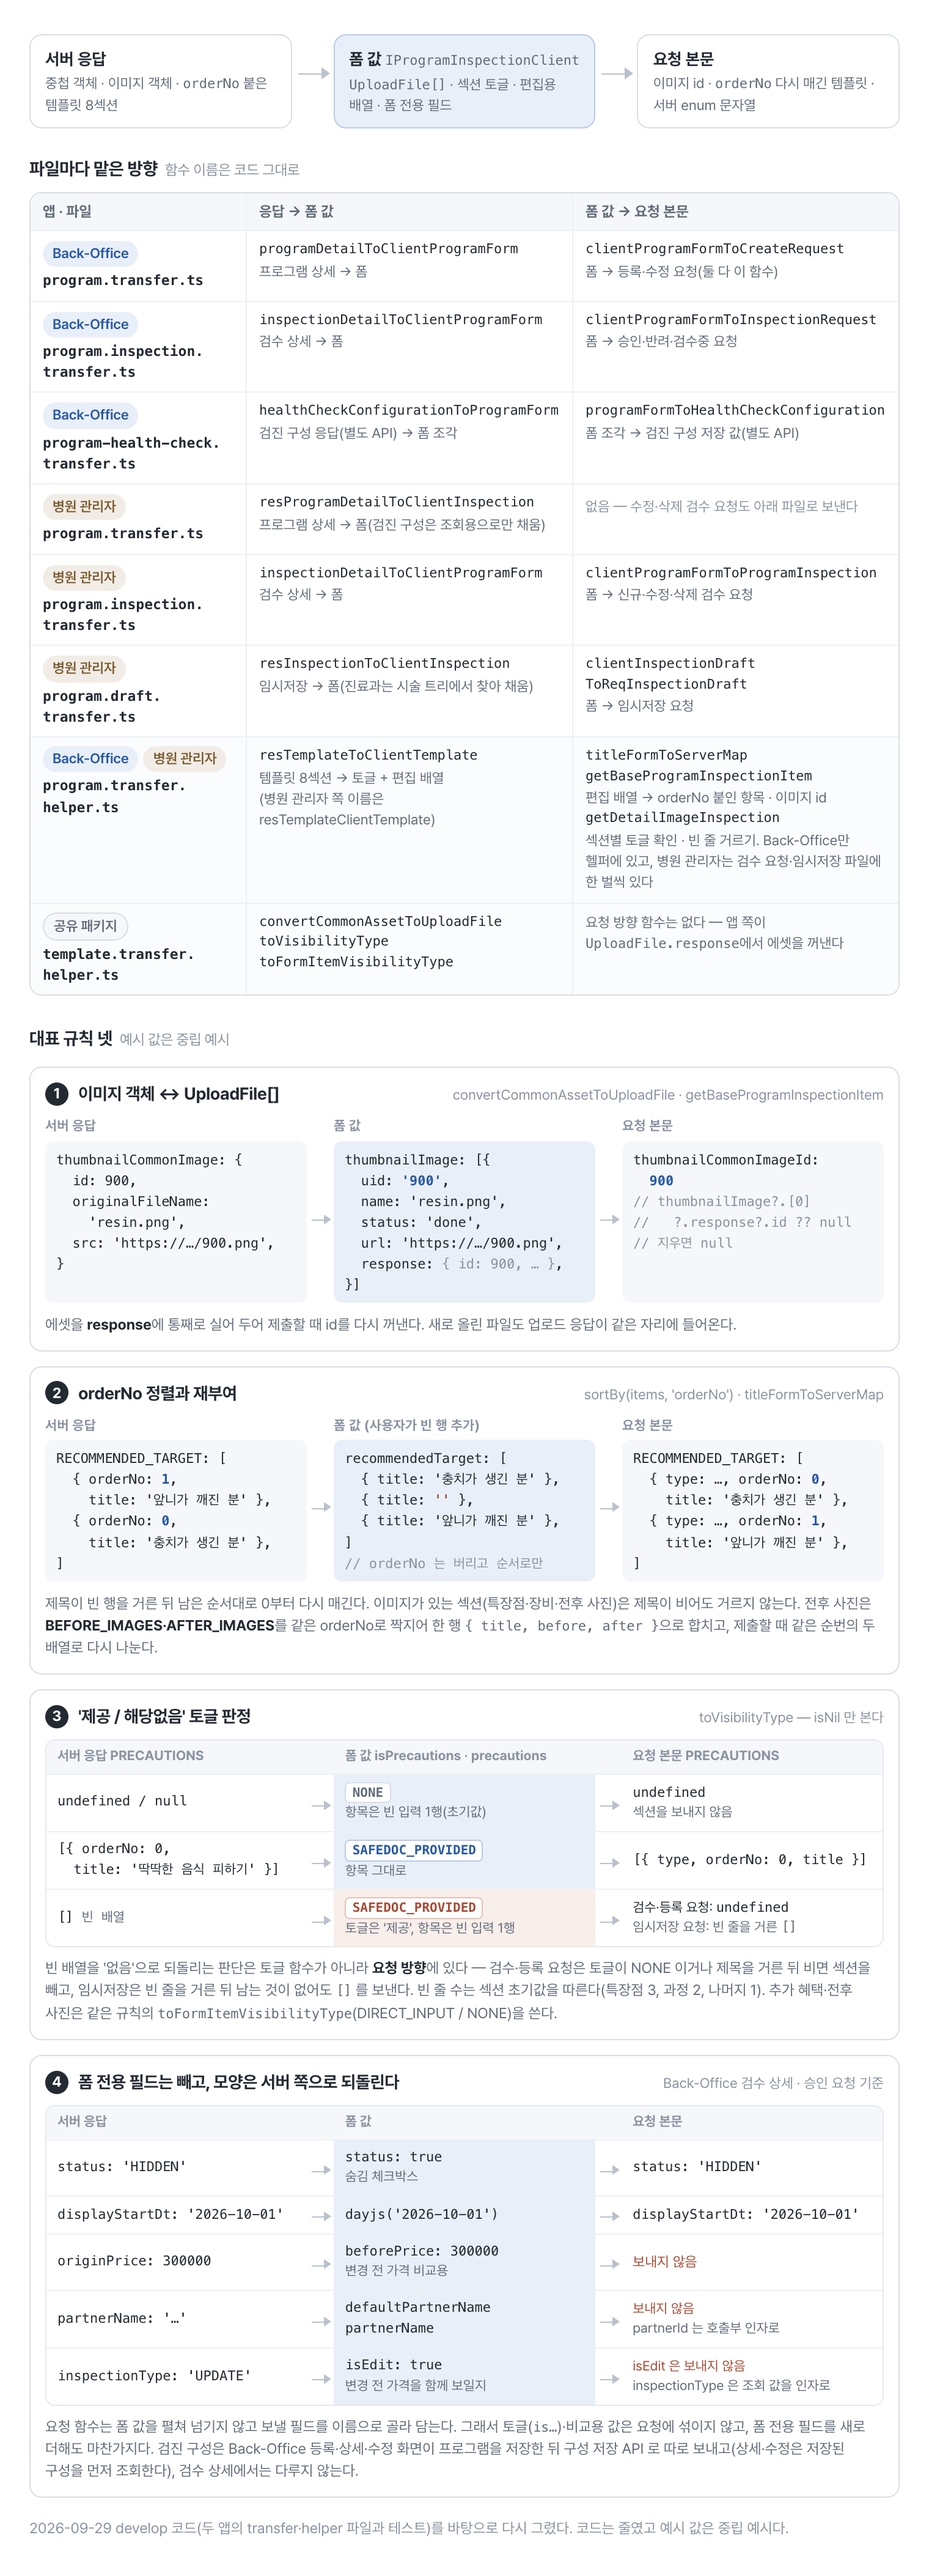
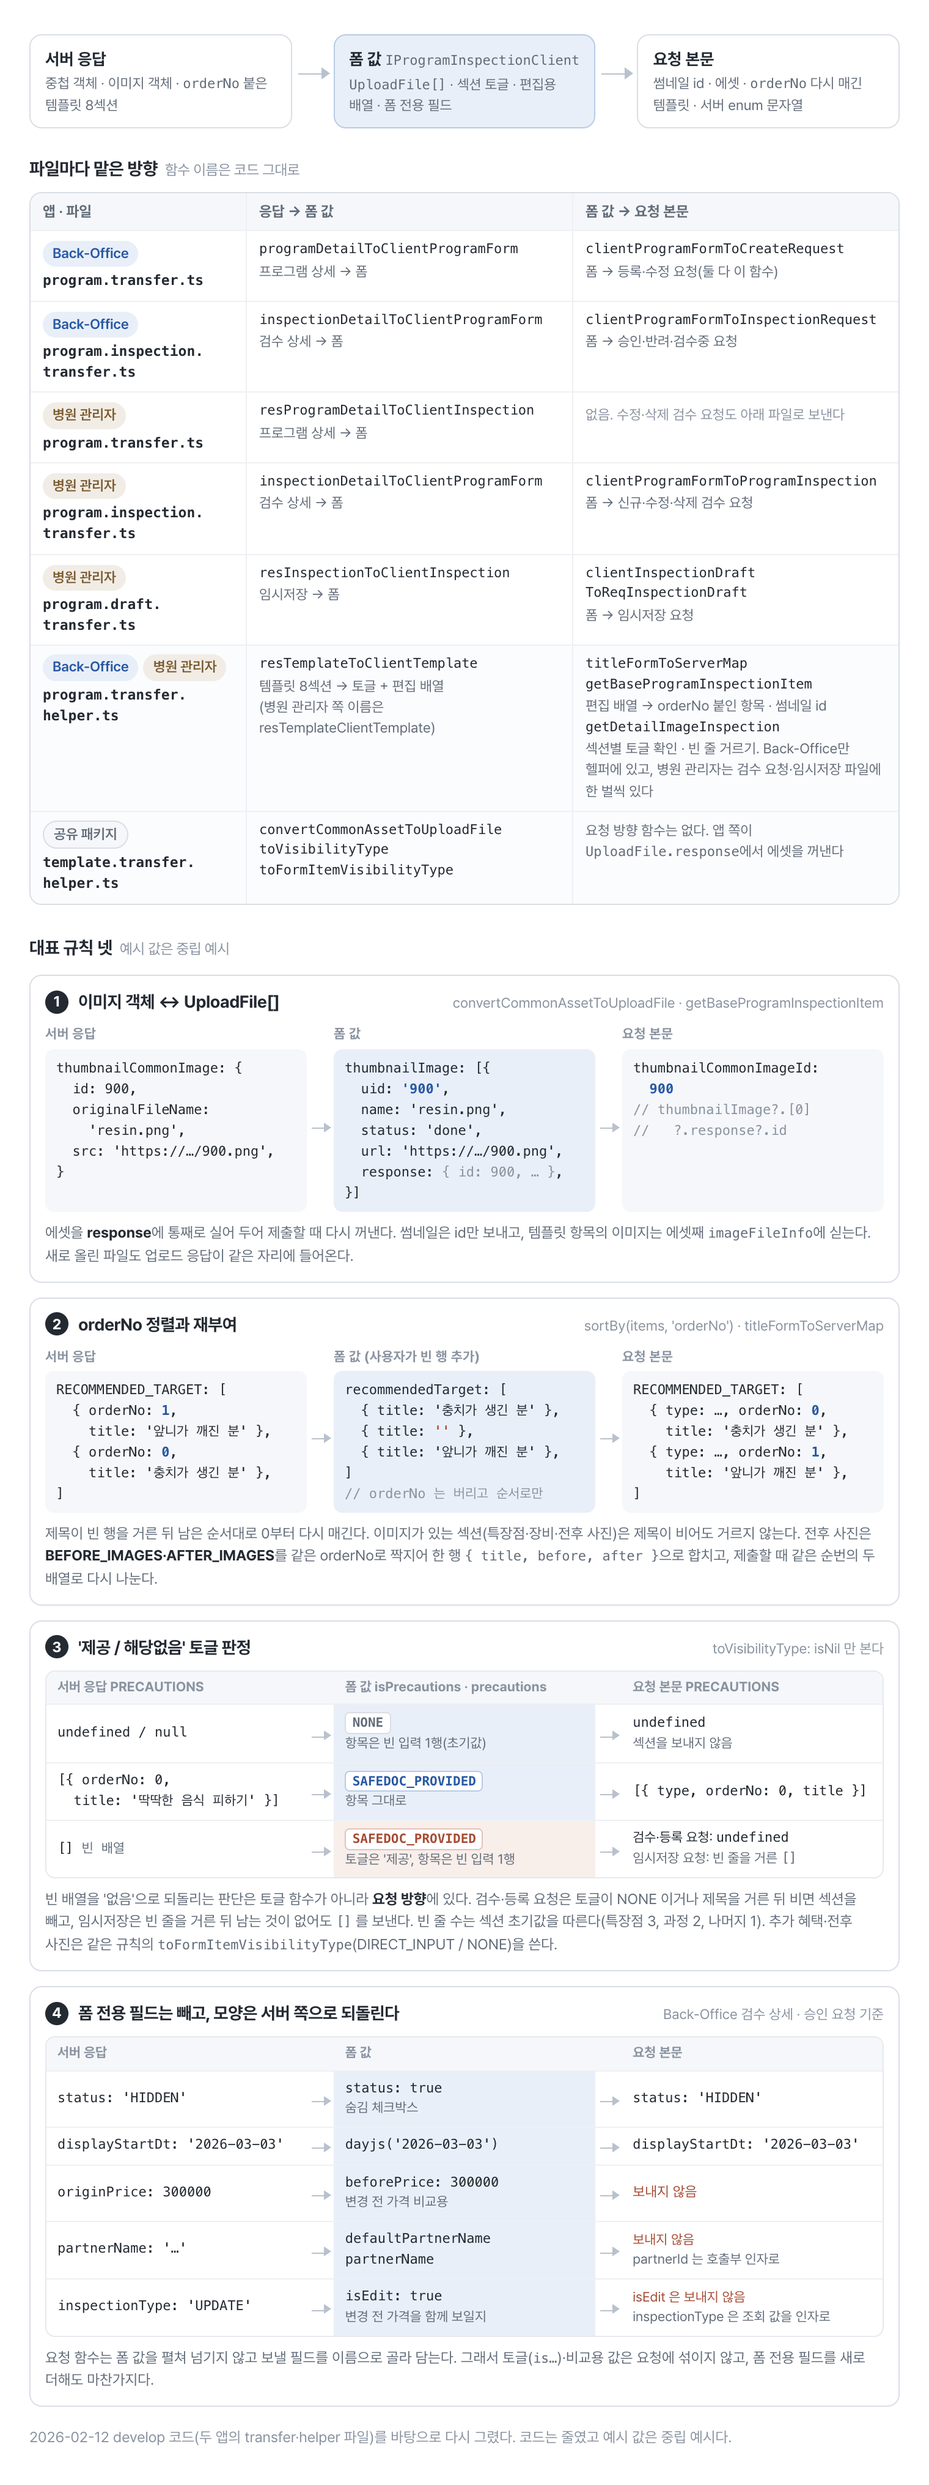
docs(blog): 프로그램 폼 변환 계층 그림에서 검진 변환을 빼고 당시 이미지 규칙으로 맞춘다

diff --git a/blog/assets/figures/program-form/src/03-transfer-layer.html b/blog/assets/figures/program-form/src/03-transfer-layer.html
@@ -81,7 +81,7 @@
   <div class="dir"></div>
   <div class="stage form"><b>폼 값 <span class="mono" style="display:inline;font-weight:400">IProgramInspectionClient</span></b><span><span class="mono" style="display:inline">UploadFile[]</span> · 섹션 토글 · 편집용 배열 · 폼 전용 필드</span></div>
   <div class="dir"></div>
-  <div class="stage"><b>요청 본문</b><span>이미지 id · <span class="mono" style="display:inline">orderNo</span> 다시 매긴 템플릿 · 서버 enum 문자열</span></div>
+  <div class="stage"><b>요청 본문</b><span>썸네일 id · 에셋 · <span class="mono" style="display:inline">orderNo</span> 다시 매긴 템플릿 · 서버 enum 문자열</span></div>
 </div>
 
 <p class="sec">파일마다 맡은 방향<small>함수 이름은 코드 그대로</small></p>
@@ -99,14 +99,9 @@
     <div><span class="fn">clientProgramFormToInspectionRequest</span><span class="what">폼 → 승인·반려·검수중 요청</span></div>
   </div>
   <div class="frow">
-    <div><span class="app bo">Back-Office</span><span class="fname">program-health-check.<wbr>transfer.ts</span></div>
-    <div><span class="fn">healthCheckConfigurationToProgramForm</span><span class="what">검진 구성 응답(별도 API) → 폼 조각</span></div>
-    <div><span class="fn">programFormToHealthCheckConfiguration</span><span class="what">폼 조각 → 검진 구성 저장 값(별도 API)</span></div>
-  </div>
-  <div class="frow">
     <div><span class="app pa">병원 관리자</span><span class="fname">program.transfer.ts</span></div>
-    <div><span class="fn">resProgramDetailToClientInspection</span><span class="what">프로그램 상세 → 폼(검진 구성은 조회용으로만 채움)</span></div>
-    <div><span class="none">없음 — 수정·삭제 검수 요청도 아래 파일로 보낸다</span></div>
+    <div><span class="fn">resProgramDetailToClientInspection</span><span class="what">프로그램 상세 → 폼</span></div>
+    <div><span class="none">없음. 수정·삭제 검수 요청도 아래 파일로 보낸다</span></div>
   </div>
   <div class="frow">
     <div><span class="app pa">병원 관리자</span><span class="fname">program.inspection.<wbr>transfer.ts</span></div>
@@ -115,18 +110,18 @@
   </div>
   <div class="frow">
     <div><span class="app pa">병원 관리자</span><span class="fname">program.draft.<wbr>transfer.ts</span></div>
-    <div><span class="fn">resInspectionToClientInspection</span><span class="what">임시저장 → 폼(진료과는 시술 트리에서 찾아 채움)</span></div>
+    <div><span class="fn">resInspectionToClientInspection</span><span class="what">임시저장 → 폼</span></div>
     <div><span class="fn" style="white-space:normal">clientInspectionDraft<wbr>ToReqInspectionDraft</span><span class="what">폼 → 임시저장 요청</span></div>
   </div>
   <div class="frow group">
     <div><div class="apps"><span class="app bo">Back-Office</span><span class="app pa">병원 관리자</span></div><span class="fname">program.transfer.<wbr>helper.ts</span></div>
     <div><span class="fn">resTemplateToClientTemplate</span><span class="what">템플릿 8섹션 → 토글 + 편집 배열<br>(병원 관리자 쪽 이름은 resTemplateClientTemplate)</span></div>
-    <div><span class="fn">titleFormToServerMap</span><span class="fn">getBaseProgramInspectionItem</span><span class="what">편집 배열 → orderNo 붙인 항목 · 이미지 id</span><span class="fn">getDetailImageInspection</span><span class="what">섹션별 토글 확인 · 빈 줄 거르기. Back-Office만 헬퍼에 있고, 병원 관리자는 검수 요청·임시저장 파일에 한 벌씩 있다</span></div>
+    <div><span class="fn">titleFormToServerMap</span><span class="fn">getBaseProgramInspectionItem</span><span class="what">편집 배열 → orderNo 붙인 항목 · 썸네일 id</span><span class="fn">getDetailImageInspection</span><span class="what">섹션별 토글 확인 · 빈 줄 거르기. Back-Office만 헬퍼에 있고, 병원 관리자는 검수 요청·임시저장 파일에 한 벌씩 있다</span></div>
   </div>
   <div class="frow group">
     <div><span class="app server">공유 패키지</span><span class="fname">template.transfer.<wbr>helper.ts</span></div>
     <div><span class="fn">convertCommonAssetToUploadFile</span><span class="fn">toVisibilityType</span><span class="fn">toFormItemVisibilityType</span></div>
-    <div><span class="what" style="margin-top:0">요청 방향 함수는 없다 — 앱 쪽이 <code style="font-size:11px">UploadFile.response</code>에서 에셋을 꺼낸다</span></div>
+    <div><span class="what" style="margin-top:0">요청 방향 함수는 없다. 앱 쪽이 <code style="font-size:11px">UploadFile.response</code>에서 에셋을 꺼낸다</span></div>
   </div>
 </div>
 
@@ -157,10 +152,9 @@
 <pre>thumbnailCommonImageId:
   <span class="k">900</span>
 <span class="c">// thumbnailImage?.[0]
-//   ?.response?.id ?? null
-// 지우면 null</span></pre></div>
+//   ?.response?.id</span></pre></div>
   </div>
-  <p class="note">에셋을 <b>response</b>에 통째로 실어 두어 제출할 때 id를 다시 꺼낸다. 새로 올린 파일도 업로드 응답이 같은 자리에 들어온다.</p>
+  <p class="note">에셋을 <b>response</b>에 통째로 실어 두어 제출할 때 다시 꺼낸다. 썸네일은 id만 보내고, 템플릿 항목의 이미지는 에셋째 <code>imageFileInfo</code>에 싣는다. 새로 올린 파일도 업로드 응답이 같은 자리에 들어온다.</p>
 </div>
 
 <!-- ② orderNo -->
@@ -196,7 +190,7 @@
 
 <!-- ③ 토글 -->
 <div class="rule">
-  <div class="rule-h"><span class="num">3</span><b>'제공 / 해당없음' 토글 판정</b><span class="by">toVisibilityType — isNil 만 본다</span></div>
+  <div class="rule-h"><span class="num">3</span><b>'제공 / 해당없음' 토글 판정</b><span class="by">toVisibilityType: isNil 만 본다</span></div>
   <div class="tt">
     <div class="tr head"><div>서버 응답 PRECAUTIONS</div><div class="arr-sp"></div><div>폼 값 isPrecautions · precautions</div><div class="arr-sp"></div><div>요청 본문 PRECAUTIONS</div></div>
     <div class="tr">
@@ -215,7 +209,7 @@
       <div><span class="s" style="color:var(--ink)">검수·등록 요청: <span class="m">undefined</span></span><span class="s">임시저장 요청: 빈 줄을 거른 <span class="m">[]</span></span></div>
     </div>
   </div>
-  <p class="note">빈 배열을 '없음'으로 되돌리는 판단은 토글 함수가 아니라 <b>요청 방향</b>에 있다 — 검수·등록 요청은 토글이 NONE 이거나 제목을 거른 뒤 비면 섹션을 빼고, 임시저장은 빈 줄을 거른 뒤 남는 것이 없어도 <code>[]</code> 를 보낸다. 빈 줄 수는 섹션 초기값을 따른다(특장점 3, 과정 2, 나머지 1). 추가 혜택·전후 사진은 같은 규칙의 <code>toFormItemVisibilityType</code>(DIRECT_INPUT / NONE)을 쓴다.</p>
+  <p class="note">빈 배열을 '없음'으로 되돌리는 판단은 토글 함수가 아니라 <b>요청 방향</b>에 있다. 검수·등록 요청은 토글이 NONE 이거나 제목을 거른 뒤 비면 섹션을 빼고, 임시저장은 빈 줄을 거른 뒤 남는 것이 없어도 <code>[]</code> 를 보낸다. 빈 줄 수는 섹션 초기값을 따른다(특장점 3, 과정 2, 나머지 1). 추가 혜택·전후 사진은 같은 규칙의 <code>toFormItemVisibilityType</code>(DIRECT_INPUT / NONE)을 쓴다.</p>
 </div>
 
 <!-- ④ 폼 전용 필드 -->
@@ -229,9 +223,9 @@
       <div class="m">status: 'HIDDEN'</div>
     </div>
     <div class="tr">
-      <div class="m">displayStartDt: '2026-10-01'</div><div class="arr"></div>
-      <div class="mid"><span class="m">dayjs('2026-10-01')</span></div><div class="arr"></div>
-      <div class="m">displayStartDt: '2026-10-01'</div>
+      <div class="m">displayStartDt: '2026-03-03'</div><div class="arr"></div>
+      <div class="mid"><span class="m">dayjs('2026-03-03')</span></div><div class="arr"></div>
+      <div class="m">displayStartDt: '2026-03-03'</div>
     </div>
     <div class="tr">
       <div class="m">originPrice: 300000</div><div class="arr"></div>
@@ -249,8 +243,8 @@
       <div><span class="drop">isEdit 은 보내지 않음</span><span class="s">inspectionType 은 조회 값을 인자로</span></div>
     </div>
   </div>
-  <p class="note">요청 함수는 폼 값을 펼쳐 넘기지 않고 보낼 필드를 이름으로 골라 담는다. 그래서 토글(<code>is…</code>)·비교용 값은 요청에 섞이지 않고, 폼 전용 필드를 새로 더해도 마찬가지다. 검진 구성은 Back-Office 등록·상세·수정 화면이 프로그램을 저장한 뒤 구성 저장 API 로 따로 보내고(상세·수정은 저장된 구성을 먼저 조회한다), 검수 상세에서는 다루지 않는다.</p>
+  <p class="note">요청 함수는 폼 값을 펼쳐 넘기지 않고 보낼 필드를 이름으로 골라 담는다. 그래서 토글(<code>is…</code>)·비교용 값은 요청에 섞이지 않고, 폼 전용 필드를 새로 더해도 마찬가지다.</p>
 </div>
 
-<p class="foot">2026-09-29 develop 코드(두 앱의 transfer·helper 파일과 테스트)를 바탕으로 다시 그렸다. 코드는 줄였고 예시 값은 중립 예시다.</p>
+<p class="foot">2026-02-12 develop 코드(두 앱의 transfer·helper 파일)를 바탕으로 다시 그렸다. 코드는 줄였고 예시 값은 중립 예시다.</p>
 </body></html>
